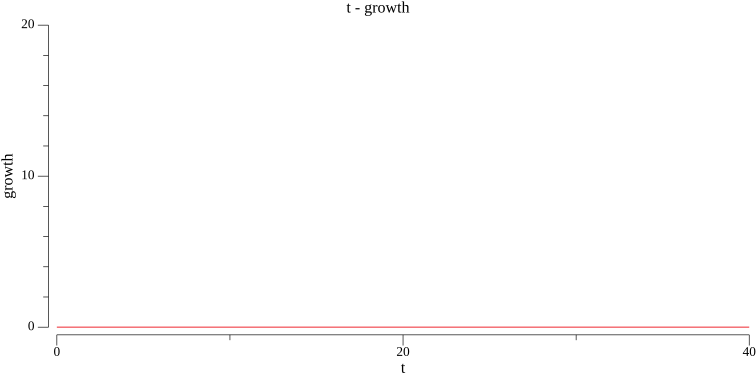
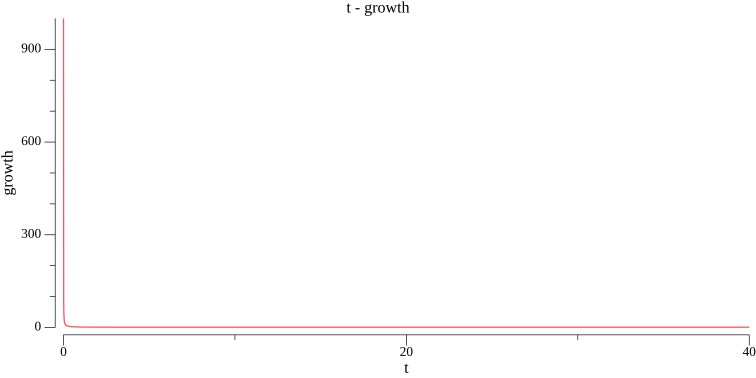
Updated logistic.png and main.go.

Changed region(s): [[0.0, 0.0582, 0.1217, 0.9603], [0.5172, 0.9021, 0.5476, 0.9894]]

diff --git a/main.go b/main.go
@@ -1,8 +1,6 @@
 package main
 
 import (
-	"fmt"
-
 	"gonum.org/v1/plot/plotter"
 )
 
@@ -29,19 +27,10 @@ func main() {
 	var points2 plotter.XYs
 	for i := 0; i <= 4000; i++ {
 		t := float64(i) / 100.0
-		deltat := 1.0 / 100.0
-		if t == 0 {
-			points2 = append(points2, plotter.XY{
-				X: t,
-				Y: 0,
-			})
-		} else {
-			points2 = append(points2, plotter.XY{
-				X: t,
-				Y: logistic(points2[i-1].Y, 1, 1, deltat),
-			})
-		}
+		points2 = append(points2, plotter.XY{
+			X: t,
+			Y: logistic(1, 1, 1000, t),
+		})
 	}
-	fmt.Println(logistic(0, 1, 1, 1/100.0))
 	CreateLineplotPlot(points2, "t - growth", l, b, "logistic.png")
 }
